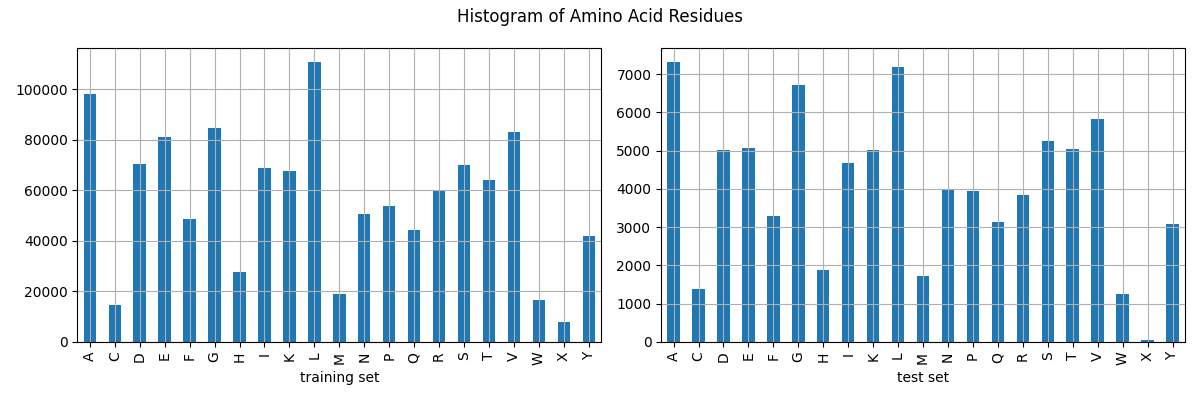
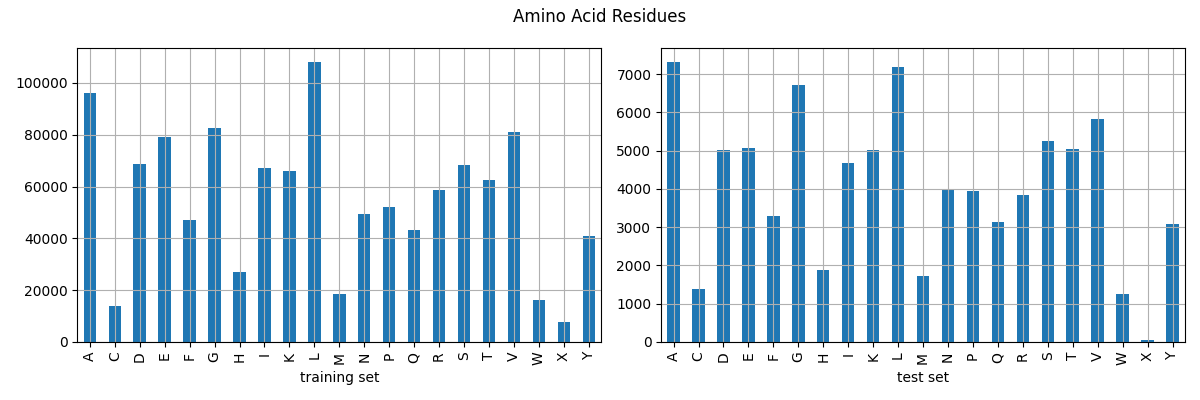
changed to use cullpdb5926 dataset.

diff --git a/stats.py b/stats.py
@@ -42,7 +42,7 @@ def main(args):
     ax = plt.subplot(1, 2, 2)
     pd.DataFrame(test_seq_len, columns=['test set']).hist(bins=100, ax=ax)
 
-    plt.suptitle('Histogram of sequence length')
+    plt.suptitle('Sequence length')
     plt.tight_layout()
     plt.savefig('figure/seq_len.png')
     
@@ -77,7 +77,7 @@ def main(args):
     df.plot(kind='bar', ax=ax)
     ax.grid(True)
 
-    plt.suptitle('Histogram of Amino Acid Residues')
+    plt.suptitle('Amino Acid Residues')
     plt.tight_layout()
     plt.savefig('figure/amino_acid.png')
 
@@ -104,13 +104,13 @@ def main(args):
     df.plot(kind='bar', ax=ax)
     ax.grid(True)
 
-    plt.suptitle('Histogram of 8-state Secondary Structures')
+    plt.suptitle('8-state Secondary Structures')
     plt.tight_layout()
     plt.savefig('figure/ss.png')
 
 if __name__ == '__main__':
     parser = argparse.ArgumentParser(description='Protein Secondary Structure Prediction')
-    parser.add_argument('--train_path', default='cullpdb+profile_6133_filtered.npy.gz')
+    parser.add_argument('--train_path', default='cullpdb+profile_5926_filtered.npy.gz')
     parser.add_argument('--test_path', default='cb513+profile_split1.npy.gz')
     args = parser.parse_args()
     print(vars(args))

diff --git a/main.py b/main.py
@@ -103,7 +103,7 @@ if __name__ == '__main__':
     parser = argparse.ArgumentParser(description='Protein Secondary Structure Prediction')
     parser.add_argument('--random_seed', default=123, type=int)
     parser.add_argument('--epochs', default=100, type=int)
-    parser.add_argument('--train_path', default='cullpdb+profile_6133_filtered.npy.gz')
+    parser.add_argument('--train_path', default='cullpdb+profile_5926_filtered.npy.gz')
     parser.add_argument('--test_path', default='cb513+profile_split1.npy.gz')
     parser.add_argument('--batch_size_train', default=100, type=int, help='input batch size for training (default: 100)')
     parser.add_argument('--batch_size_test', default=1000, type=int, help='input batch size for testing (default: 1000)')

diff --git a/README.md b/README.md
@@ -1,22 +1,17 @@
 # Example datasets of Protein Secondary Structure Prediction
 
-Protein secondary structure prediction datasets, CullPDB6133 and CB513, and simple implementation in PyTorch.
+Protein secondary structure prediction datasets, CullPDB5926 and CB513, and simple implementation in PyTorch.
 
 ## Dataset
 
 This repository includes datasets used in [Deep supervised and convolutional generative stochastic network for protein secondary structure prediction](https://dl.acm.org/doi/10.5555/3044805.3044890) at ICML 2014.
 
-### Update 2018-10-28
+As described in the paper two datasets are used. Both are based on protein structures from CullPDB servers.
+The difference is that the first one is divided to training/validation/test set, while the second one is filtered to remove redundancy with CB513 dataset (for the purpose of testing performance on CB513 dataset).
 
-As described in the paper two datasets are used.
-Both are based on protein structures from CullPDB servers.
-The difference is that the first one is divided to training/validation/test set,
-while the second one is filtered to remove redundancy with CB513 dataset (for the purpose of testing performance on CB513 dataset).
+`cullpdb+profile_5926_filtered.npy.gz` is the one with training/validation/test set division, after filtering for redundancy with CB513. this is used for evaluation on CB513.
 
-`cullpdb+profile_6133.npy.gz` is the one with training/validation/test set division;
-`cullpdb+profile_6133_filtered.npy.gz` is the one after filtering for redundancy with CB513. this is used for evaluation on CB513.
-
-`cb513+profile_split1.npy.gz` is the CB513 features I used.
+`cb513+profile_split1.npy.gz` is the CB513 including protein features.
 Note that one of the sequences in CB513 is longer than 700 amino acids, and it is splited to two overlapping sequences and these are the last two samples (i.e. there are 514 rows instead of 513).
 
 It is currently in numpy format as a (N protein x k features) matrix. You can reshape it to (N protein x 700 amino acids x 57 features) first.
@@ -31,12 +26,16 @@ The 57 features are:
 The last feature of both amino acid residues and secondary structure labels just mark end of the protein sequence.
 `[22,31)` and `[33,35)` are hidden during testing.
 
-The dataset division for the first cullpdb+profile_6133.npy.gz dataset is
-- `[0,5600)` training
-- `[5605,5877)` test
-- `[5877,6133)` validation
 
-For the filtered dataset cullpdb+profile_6133_filtered.npy.gz, all proteins can be used for training and test on CB513 dataset.
+The 'cullpdb+profile_5926_filtered.npy.gz' file are removed duplicates from the original 'cullpdb+profile_6133_filtered.npy.gz' file, updated 2018-10-28.
+
+The dataset division for the cullpdb+profile_5926.npy.gz dataset is
+
+- `[0,5430)` training
+- `[5435,5690)` test
+- `[5690,5926)` validation
+
+For the filtered dataset cullpdb+profile_5926_filtered.npy.gz, all proteins can be used for training and test on CB513 dataset.
 
 <img src="figure/seq_len.png" alt="sequence length" />
 
